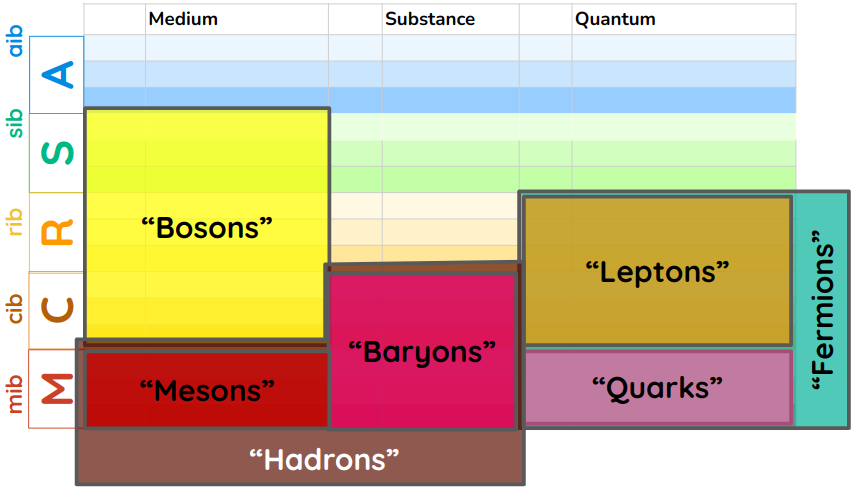
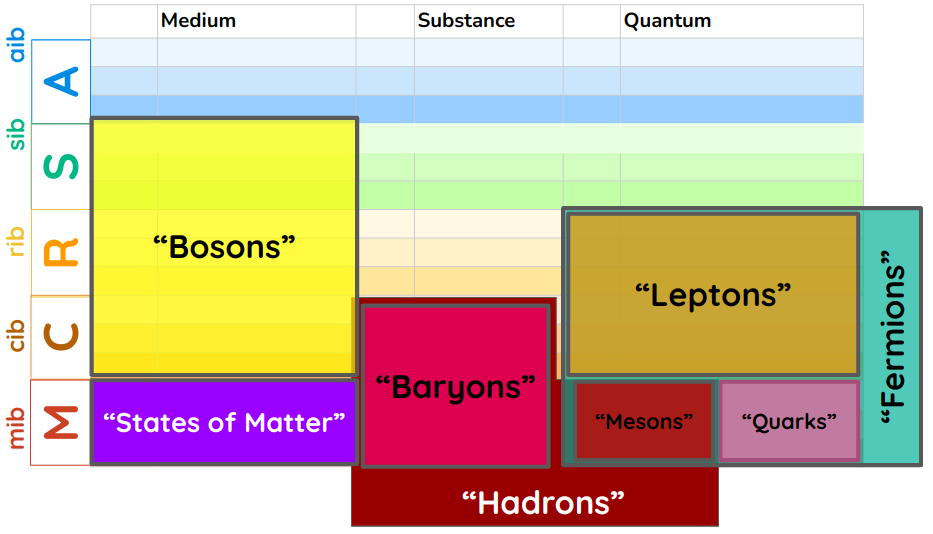
update

diff --git a/content/en/material/principles/part-2/chapter-08.md b/content/en/material/principles/part-2/chapter-08.md
@@ -1,6 +1,6 @@
 ---
 heading: "Chapter 8"
-title: "The Expansion of Spacetime"
+title: "Dark Energy: The Expansion of Space-Time"
 # date: 2023-03-10
 weight: 34
 image: /graphics/physics/expansion.jpg
@@ -13,15 +13,54 @@ writer:
 ---
 
 
-Everything is expanding, even your own atoms. 
 
-In the 1630's Descartes wrote about how the universe works. 
+
+In 1644, Descartes established a complete theory of gravity, saying that objects revolve around the sun at varying speeds based on their location or distance from the center vortex, represented by the sun. 
+
+{{< i s="/graphics/physics/rotation2.jpg" a="Rotation" >}}
+
+- The closest planets like Mercury revolved fast.
+- The outer planets like Jupiter revolved slower.
+- But the farthest objects revolved the fastest.
+
+Each vortex is different from each other and so everything is relative depending on which vortex you use as the basis for measurement.
+
+Newton debunks this in his Principia in 1685, saying that planets revolve according to their inertia and not their location. 
+
+This was validated when the outer planets were discovered. And so Descartes' theory was abandoned forever. 
+
+
+### Dark Matter and Dark Energy are Not Needed
+
+But in 1933, Fritz Zwicky found that the outer parts of galaxies revolve faster than the inner parts, violating Newton. This led to the invention of dark matter to keep it within Newton's laws. 
+
+But this really vindicated Descartes' gravity -- a supermassive blackhole is the best representation of a Cartesian vortex. 
+
+The speed of the outer parts is accounted for by the center of the vortex and not by any dark matter. 
+
+To put icing on the gravity-cake, the DESI telescopes, meant to measure dark energy, see that speed of the universe's expansion measured through red-shift varies depending on which galaxy-cluster you look.
+
+And so in Cartesian Physics, there is no need for either dark matter or dark energy. 
+
+- Dark matter is an effect of the central vortex. 
+- Dark energy is an effect of clusters of vortices relative to each other. 
+
+
+### The Mechanism for Expansion
+
+In Modern Physics, the expansion of the universe is seen through the red shift measured from distant galaxies. This acts like a  doppler effect that shows that those galaxies are moving away.
+
+The Hubble and James Webb Space Telescopes measure this with a few galaxies. But specialized telescopes such as DESI measure the red shift from many galaxies for a long time. 
+
+This lets them get a bigger data set for the expansion. They find that that the expansion varies and depends on which galaxy cluster you look.  
+
+Descartes explained this expansion in the 1630's. 
 
 According to him, the universe began when spacetime became divided. These divisions led to diverse vortices that later became galaxies, stars, and planets. 
 
-This division did not stop after those heavenly bodies were created. It still continues every millisecond. 
+This division did not stop after those heavenly bodies were created. It still continues every nanosecond, or more properly at every Planck Time. 
 
-This now manifests as the expansion of the universe which is revealed by the cosmic red shift.
+<!-- This now manifests as the expansion of the universe which is revealed by the cosmic red shift. -->
 
 {{< img src="/graphics/physics/expansion.jpg" alt="Expansion of the Universe" cap="Dark Matter and Dark Energy are unnecessary because they are accounted for by properties of spacetime" >}}
 
@@ -60,3 +99,6 @@ However, the diversity within those divisions is increasing.
 So it leads to the perception that the expansion is accelerating. 
 
 Note that the accelerated expansion is only through the red shift in the macro scale, and conversely by length contraction by Lorentz Relativity.   -->
+
+
+In addition to the conclusions from Cartesian Physics mentioned earlier, this gives us an additional conclusion: Everything is expanding, even your own atoms.

diff --git a/content/en/material/principles/part-2/chapter-03e.md b/content/en/material/principles/part-2/chapter-03e.md
@@ -14,27 +14,48 @@ icon: /icons/spmat.png
 
 {{< youtube X_P0GEu4HQY >}}
 
-Superposition is the ability of a quantum thing to exist in multiple states simultaneously.
+Physicists see Quantum Mechanics as weird or spooky because they are stuck with the Newtonian assumption that everything is within space. 
 
-Decoherence is when that thing loses its superposition.
+But in Superphysics, everything is within the aether. This includes spacetime. 
 
-This causes it to manifest as one state as a collapse of its wave function. 
+{{< i s="/graphics/physics/rotation3.png" a="Cartesian Spacetime" c="In Superphysics, reality is all within the aether which is a product of probability.">}}
 
-Modern Physics is totally confounded by this. 
 
-Cartesian-Spinoza Physics, on the other hand, can explain them as the effects of the spatial dimension, which Descartes calls the 2nd Element. 
+The aether itself is within probability. This is why quantum mechanics, and reality itself, is inherently probabilistic. This concept is imbued in the concepts of:
+- superposition
+- wave function collapse
+- decoherence
 
-We introduce 3 versions or 'modes' of space and time: 
+
+Superposition is the ability of a quantum thing to exist in multiple states simultaneously. This is because everything is an aethereal wave.
+
+This wave becomes a single state whenever it hits something. You can think of this as taking a snapshot of an event. At this state, the wave function 'collapses' and the wave becomes a particle. 
+
+Decoherence is the state after that thing loses its superposition through the collapse of its wave function.
+
+<!-- This causes it to manifest as one state as a collapse of its wave function.  -->
+
+<!-- Modern Physics is totally confounded by this.  -->
+
+These are all effects of waves going through the 3 'modes' of the Spatial Layer. 
 
 1. Spacetime
 2. Aetherspace
 3. Timespace
 
 
-### Spacetime 
+### Space-Time 
 
-Spacetime is already somewhat known to Physics as a 4-dimensional continuum. However, we clarify that it is actually made up of **2-dimensional slices** separated by Planck length.
+Space-Time is similar to the spacetime of Einstein's Theory of Relativity in the sense that it is made up of more than 3 dimensions. 
 
+Both Physics and Superphysics have a 4-dimensional spacetime with past, present, and future. 
+
+However, the Space-Time of Superphysics has additional dimensions:
+- 5th Dimension as alternate realities
+- 6th Dimension as parallel other universes
+- 7th Dimension as the totality of existence
+
+All these Dimensions are made up of **2-dimensional slices** separated by Planck length.
 
 {{< i s="/graphics/physics/aetherspaceall.jpg" a="Aetherspace" c="Spacetime slices exist in the aetherspace. This leads to alternate realities and other universes" >}}
 

diff --git a/content/en/material/principles/intro/chapter-02c.md b/content/en/material/principles/intro/chapter-02c.md
@@ -19,6 +19,8 @@ There are 5 Layers in Reality | Layer 0 is the Probability Layer
 {{< /dc >}}
 
 
+The Probability Layer is above and covers the aethereal layer. This means it is above existence  and is only theoretical.  We can also call this pre-existence that binds existence.
+
 
 {{< q a="Poincare" c="" >}}
 Predicted facts can only be probable.
@@ -27,25 +29,26 @@ Every time the physicist reasons by induction, he consciously requires the calcu
 {{< /q >}}
 
 
-The Probability Layer is above and covers the aethereal layer. This means it is above existence  and is only theoretical.  We can also call this pre-existence that binds existence.
-
 This layer is static and is driven by the desire of either the Creator or the createe / creation.
 
-Currently, this is covered by Quantum Mechanics, specifically the Heisenberg Uncertainty Principle and Schrodinger Equation.   
+When describing movement, Rene Descartes uses the word 'tend to'. This is because movement is inherently probabilistic. This is why Cartesian Physics has Quantum Mechanics built in.  
 
-<!-- > *This leads to the [Socratic Theory of Forms](/research/socrates/phaedo/chapter-8), which leads to Essences -->
+This is different from Newton or Einstein who formulated their laws of movement emhasizing total predictability. For example, Newton has a concept of absolute space. 
+
+In Cartesian-Spinozan Physics, everything is relative and nothing is absolute, other than the Absolute Entity. 
+
 
 {{< q a="Montesquieu" c="Spirit of the Laws, Book 1" >}}
 Intelligent beings might have laws of their own making. But they also have some which they never made. Before there were intelligent beings, they were a possibility.
 {{< /q >}}
 
 
-When describing movement, Rene Descartes uses the word 'tend to'. This is because movement is inherently probabilistic. This is why Cartesian Physics has Quantum Mechanics built in.  
-
-This is different from Newton or Einstein who formulated their laws of movement emhasizing total predictability. 
 
 This Layer will be explained in Superphysics in order to reduce the content of Material Superphysics. 
 
+However, we can discuss its material aspects here, covered by Quantum Mechanics, specifically the Heisenberg Uncertainty Principle and the Schrodinger Equation.   
+
+<!-- > *This leads to the [Socratic Theory of Forms](/research/socrates/phaedo/chapter-8), which leads to Essences -->
 
 
 ### The Schrodinger Equation
@@ -56,3 +59,4 @@ Coming soon!
 ### The Heisenberg Uncertainty Principle 
 
 Coming soon!
+

diff --git a/content/en/material/principles/part-2/chapter-03.md b/content/en/material/principles/part-2/chapter-03.md
@@ -22,7 +22,7 @@ Upper | Timespace | Time is dominant
 Middle | Aetherspace | Alternates between time and space (i.e. probabilistic)
 Lower | Spacetime | Space is dominant
 
-{{< img src="/graphics/physics/spacetimeratio.png" alt="The 3 Media of the Spaital Layer" cap="" >}}
+{{< img src="/graphics/physics/spacetimeratio.png" alt="The 3 Media of the Spaital Layer" cap="The Aethereal, Spatial, and Radiant Layers" >}}
 
 - Timespace is the sublayer where time predominates and space is minimal. 
 - Spacetime is the sublayer where space predominates and time is minimal. 
@@ -35,13 +35,13 @@ The media of the spatial layer create the various forces:
 
 Layer | Media | Force
 --- | --- | ---
-Aethereal-Spatial | Spacetime or Most3 | Dark Energy
-Spatial-Spatial | Spacetime or Most3 | Dark Matter
-Spatial-Radiant/Material | Spacetime or Most3 | Gravity
+Aethereal-Spatial | Spacetime or most3 | Dark Energy
+Spatial-Spatial | Spacetime or most3 | Dark Matter
+Spatial-Radiant/Material | Spacetime or most3 | Gravity
 Radiant | Spacetime or most3 + mor3| Magnetism 
-Material | Aetherspace or Most2 | Gluon or Strong Force
+Material | Aetherspace or most2 | Gluon or Strong Force
 
-
+ 
 Forces that work in the Spatial and Athereal layers are not detectable by instruments. That is why physicists are unable to find dark matter, dark energy, and gravity. 
 
 <!-- Name | Image | Description

diff --git a/content/en/material/principles/part-2/chapter-02.md b/content/en/material/principles/part-2/chapter-02.md
@@ -18,9 +18,9 @@ The upper sublayer is quasi-metaphysical, while the lower is physical.
 
 Sublayer | Physicality | Medium | Substance | Quantum 
 --- | --- | --- | --- | ---
-Upper | Quasi-Metaphysical | Timespace | Time | Galactic Black Holes / Chakras
-Mid | Physical | Aetherspace Multiverses | Black Holes |  Stellar and Planetary Black Holes
-Lower | Physical | Spacetime | Space | Material Things | Subatomic Vortices
+Upper | Quasi-Metaphysical | Timespace | Time | Galactic Black Holes / Chakras (Dark Matter and Dark Energy)
+Mid | Physical | Aetherspace Multiverses | Black Holes |  Stellar and Planetary Black Holes (Orbital Gravity and Surface Tension)
+Lower | Physical | Spacetime | Space | Material Things (Atomic Gravity)
 
 
 The Upper Spacetime is not purely physical as it is the realm of:

diff --git a/content/en/material/principles/part-4/chapter-08.md b/content/en/material/principles/part-4/chapter-08.md
@@ -1,10 +1,10 @@
 ---
 heading: "Chapter 8"
-title: "Helicity Determines Covertibility"
+title: "Particle Spin: Helicity Determines Covertibility"
 # # date: 2020-01-29
 # date: 2024-02-17
 image: /photos/physics/light.jpg
-# description: "New-Agers say that the universe is a reflection of one's own consicousness. This is half-true, because it is really based on one's feelings and volition"
+description: "Particle spin is an effect of the Convertible Layer"
 # . Here, we explain how reality reflects our feelings through the Physics concept of particle-spin
 writer:
   name: Juan

diff --git a/content/en/material/principles/part-2/chapter-02c.md b/content/en/material/principles/part-2/chapter-02c.md
@@ -3,7 +3,7 @@ heading: "Chapter 2c"
 title: "The Properties of Time"
 # date: 2023-03-10
 weight: 8
-image: /photos/objects/clock.jpg
+image: /photos/psych/bore.jpg
 # was 1c
 description: "Proper Time passes faster on a mountain because it covers more space for the same amount of Coordinate time, so Proper time adjusts accordingly"
 writer:

diff --git a/content/en/material/principles/part-2/chapter-03b.md b/content/en/material/principles/part-2/chapter-03b.md
@@ -3,7 +3,7 @@ heading: "Chapter 3b"
 title: "Timespace as Holder of Gravitational Signatures"
 # date: 2024-07-22
 weight: 12
-image: /graphics/physics/spacetime.jpg
+image: /photos/objects/clock.jpg
 description: "Timespace is the sublayer where time predominates and space is minimal."
 writer:
   name: Juan

diff --git a/content/en/material/principles/part-2/chapter-02b.md b/content/en/material/principles/part-2/chapter-02b.md
@@ -3,7 +3,7 @@ heading: "Chapter 2b"
 title: "The Properties of Space"
 # date: 2023-11-27
 weight: 6
-image: /graphics/physics/slices.jpg
+image: /graphics/physics/space.jpg
 # was 1b
 description: "Physical Space is in the Physical Domain. Metaphysical Space is in the Metaphysical Domain"
 writer:
